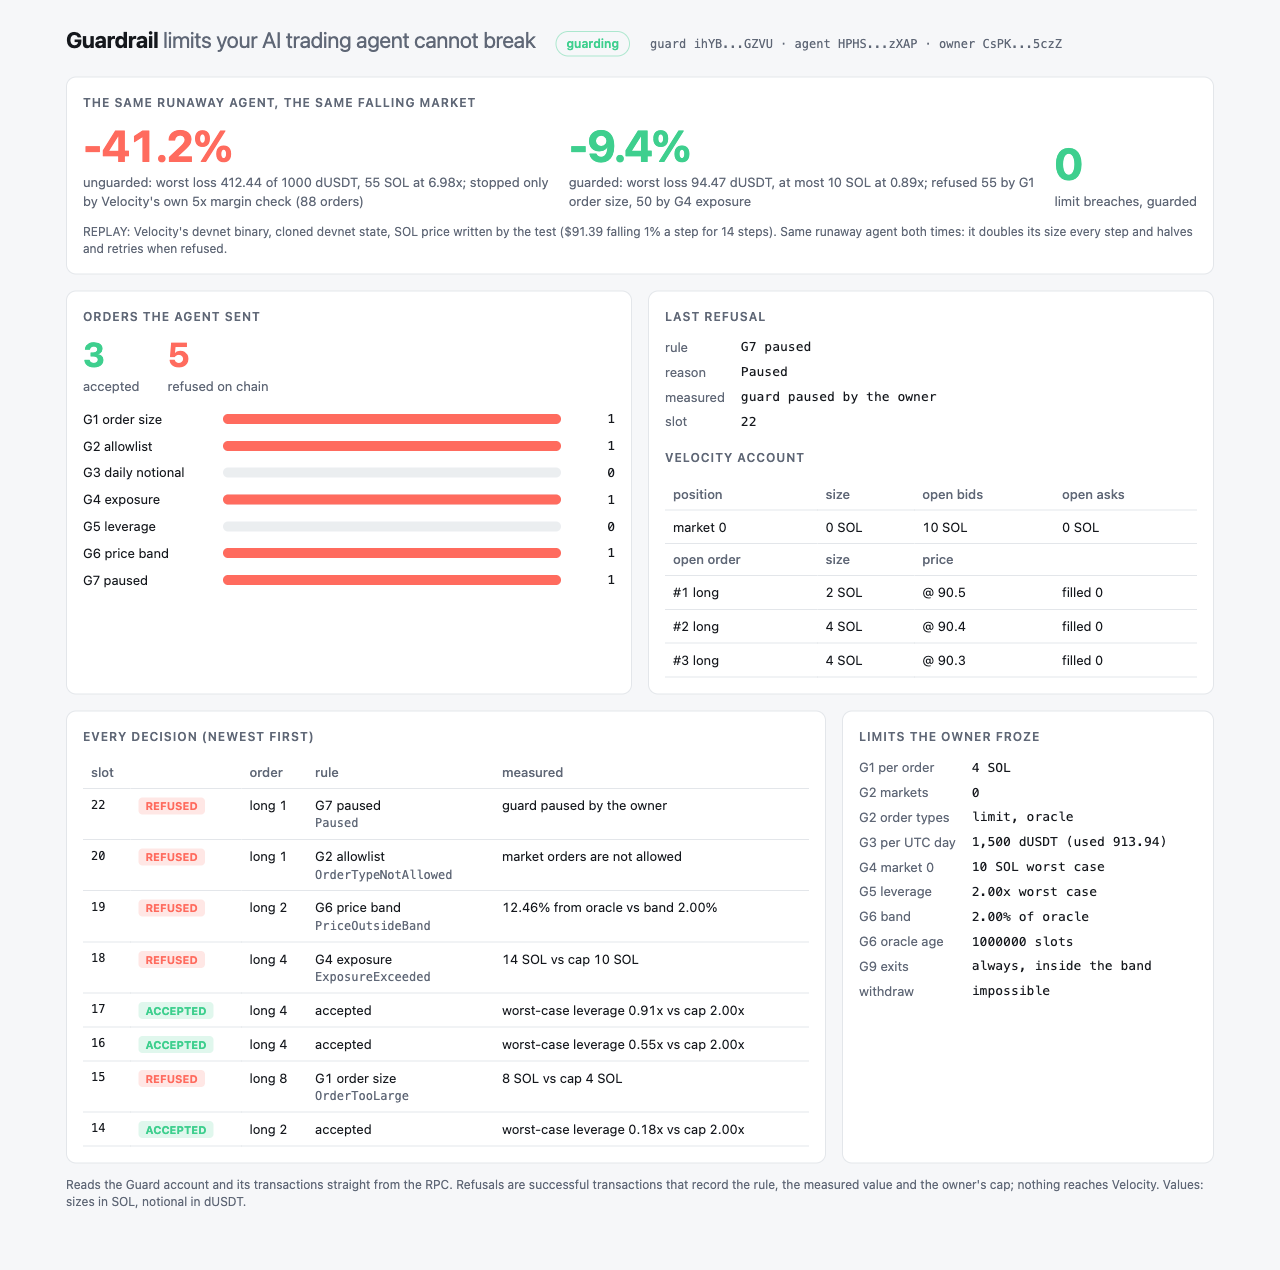
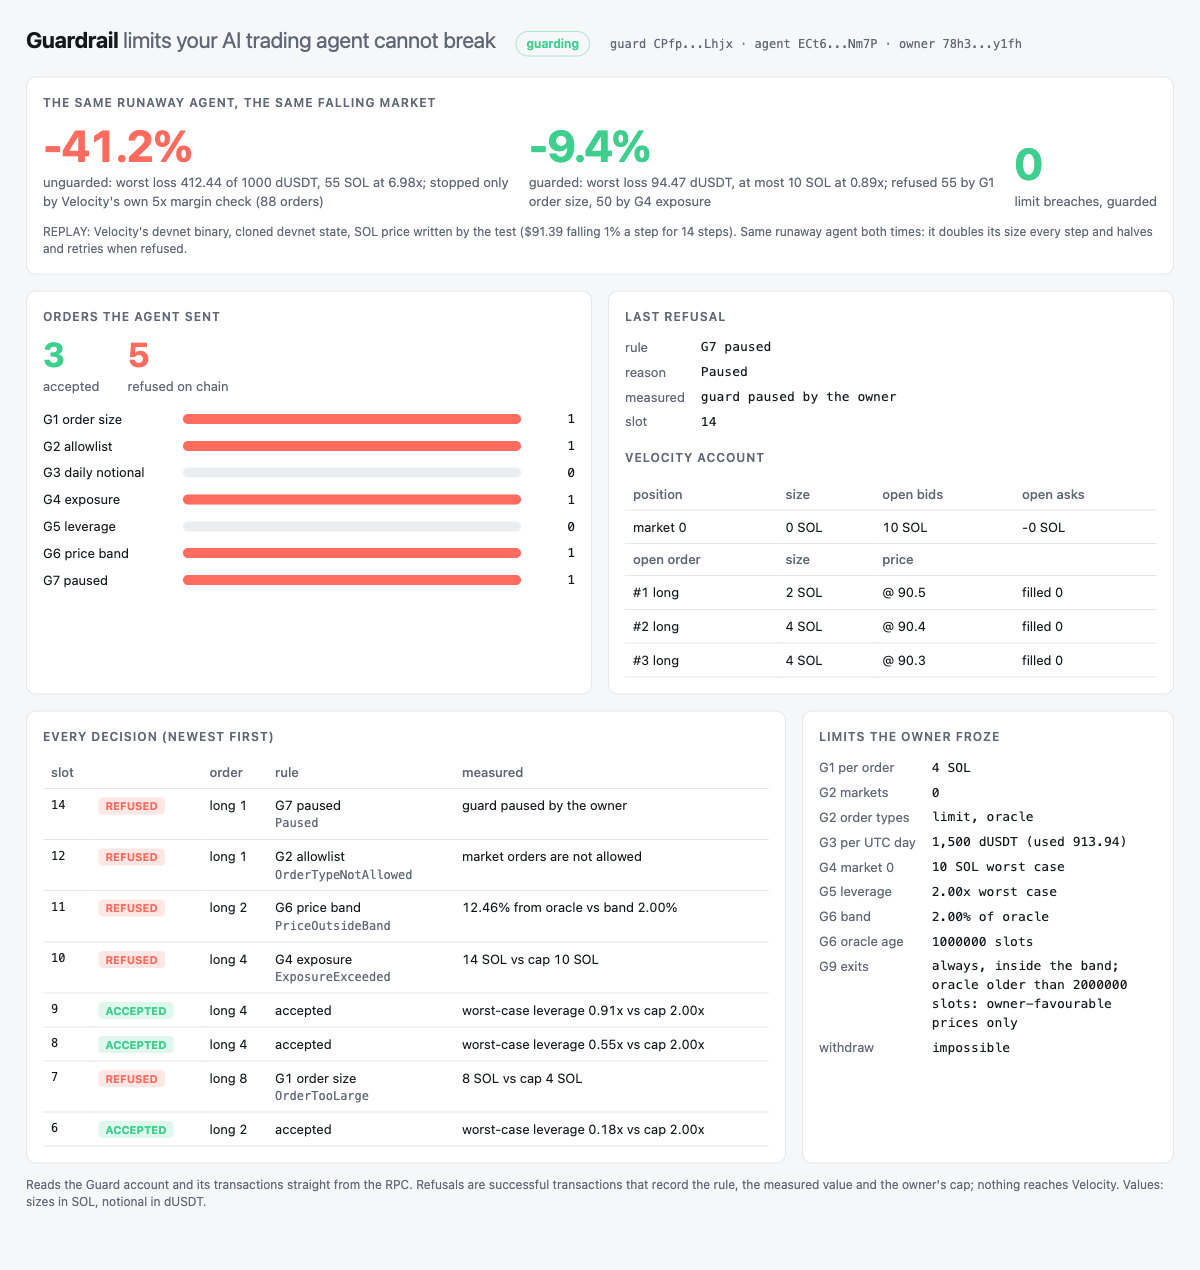
Dashboard hardening: guard-frame-only events for this guard, owner checks, rpc allowlist, DOM rendering with textContent

diff --git a/dashboard/app.js b/dashboard/app.js
@@ -1,98 +1,47 @@
-import { loadDashboard, RULES, REASONS } from "./guard-view.js";
+import { loadDashboard, allowedRpc } from "./guard-view.js";
+import { renderBars, renderError, renderFeed, renderLastRefusal, renderLimits, renderVelocity } from "./render.js";
 
 const q = new URLSearchParams(location.search);
-const RPC = q.get("rpc") ?? "http://127.0.0.1:8999";
+const RPC = allowedRpc(q.get("rpc"));
 const GUARD = q.get("guard");
 const $ = (id) => document.getElementById(id);
-const sol = (b) => (Number(b) / 1e9).toLocaleString(undefined, { maximumFractionDigits: 4 });
-const usd = (b) => (Number(b) / 1e6).toLocaleString(undefined, { maximumFractionDigits: 2 });
-const esc = (s) => String(s).replace(/[&<>"]/g, (c) => ({ "&": "&amp;", "<": "&lt;", ">": "&gt;", '"': "&quot;" })[c]);
-const short = (a) => `${a.slice(0, 4)}...${a.slice(-4)}`;
-
-/** Formats a rule's measured value and cap in its own units. */
-const ORDER_TYPES = { 0: "market", 1: "limit", 2: "trigger market", 3: "trigger limit", 4: "oracle" };
-function measure(rule, v, cap, reason) {
-  if (rule === 2) {
-    if (reason === 6001) return `market ${v} is not on the allowlist`;
-    if (reason === 6002) return `${ORDER_TYPES[Number(v)] ?? v} orders are not allowed`;
-    if (reason === 6003) return "builder fields must be empty";
-    if (reason === 6015) return "trigger orders are not supported";
-    return "order shape not allowed";
-  }
-  if (rule === 6 && reason === 6028) return `exit with an oracle ${v} slots old (over ${cap}) priced against the owner`;
-  if (rule === 5 && reason === 6022) return "a non-quote spot balance or quote borrow exists";
-  if (rule === 5 && reason === 6024) return "account equity is not positive";
-  switch (rule) {
-    case 1: case 4: return `${sol(v)} SOL vs cap ${sol(cap)} SOL`;
-    case 3: return `${usd(v)} dUSDT today vs cap ${usd(cap)}`;
-    case 5: return `worst-case leverage ${(Number(v) / 1e4).toFixed(2)}x vs cap ${(Number(cap) / 1e4).toFixed(2)}x`;
-    case 6: return `${(Number(v) / 100).toFixed(2)}% from oracle vs band ${(Number(cap) / 100).toFixed(2)}%`;
-    case 7: return "guard paused by the owner";
-    default: return "";
-  }
-}
+const short = (a) => `${String(a).slice(0, 4)}...${String(a).slice(-4)}`;
 
 async function headline() {
   try {
     const h = await (await fetch("./headline.json")).json();
-    $("h-un").textContent = `-${h.unguarded.worstLossPct}%`;
+    $("h-un").textContent = `-${Number(h.unguarded.worstLossPct)}%`;
     $("h-un-sub").textContent = `unguarded: worst loss ${h.unguarded.worstLoss} of ${h.collateral} dUSDT, ${h.unguarded.maxPositionSol} SOL at ${h.unguarded.maxLeverage}x; stopped only by ${h.unguarded.stoppedBy}`;
-    $("h-gu").textContent = `-${h.guarded.worstLossPct}%`;
+    $("h-gu").textContent = `-${Number(h.guarded.worstLossPct)}%`;
     $("h-gu-sub").textContent = `guarded: worst loss ${h.guarded.worstLoss} dUSDT, at most ${h.guarded.maxPositionSol} SOL at ${h.guarded.maxLeverage}x; refused ${Object.entries(h.guarded.refused).map(([k, n]) => `${n} by ${k}`).join(", ")}`;
-    $("h-br").textContent = h.guarded.breaches;
+    $("h-br").textContent = String(Number(h.guarded.breaches));
     $("h-label").textContent = h.label;
   } catch { $("headline-panel").style.display = "none"; }
 }
 
+function status(text, bad) {
+  $("status").textContent = text;
+  $("status").className = `pill ${bad ? "no" : "ok"}`;
+}
+
 function render({ guard: g, velocity, decisions }) {
   const revoked = g.agent === "11111111111111111111111111111111";
-  const st = $("status");
-  st.textContent = revoked ? "agent revoked" : g.paused ? "paused" : "guarding";
-  st.className = `pill ${revoked || g.paused ? "no" : "ok"}`;
+  status(revoked ? "agent revoked" : g.paused ? "paused" : "guarding", revoked || g.paused);
   $("ids").textContent = `guard ${short(GUARD)} · agent ${revoked ? "none" : short(g.agent)} · owner ${short(g.owner)}`;
-  const refusedTotal = Object.values(g.refused).reduce((a, b) => a + b, 0n);
-  $("c-acc").textContent = g.acceptedCount.toString();
-  $("c-ref").textContent = refusedTotal.toString();
-  const max = Number(Object.values(g.refused).reduce((a, b) => (b > a ? b : a), 1n));
-  const names = { G1: "G1 order size", G2: "G2 allowlist", G3: "G3 daily notional", G4: "G4 exposure", G5: "G5 leverage", G6: "G6 price band", G7: "G7 paused" };
-  $("bars").innerHTML = Object.entries(g.refused).map(([k, n]) =>
-    `<div class="bar"><span>${names[k]}</span><div class="track"><div class="fill" style="width:${(Number(n) / max) * 100}%"></div></div><span class="n">${n}</span></div>`).join("");
-  const lr = g.lastRefusal;
-  $("last").innerHTML = lr.reason
-    ? `<dl class="kv"><dt>rule</dt><dd>${esc(RULES[lr.rule] ?? lr.rule)}</dd><dt>reason</dt><dd>${esc(REASONS[lr.reason] ?? lr.reason)}</dd><dt>measured</dt><dd>${esc(measure(lr.rule, lr.value, lr.cap, lr.reason))}</dd><dt>slot</dt><dd>${lr.slot}</dd></dl>`
-    : `<p class="empty">No refusals yet.</p>`;
-  const pos = velocity.positions.map((p) => `<tr><td>market ${p.marketIndex}</td><td>${sol(p.base)} SOL</td><td>${sol(p.openBids)} SOL</td><td>${sol(-p.openAsks)} SOL</td></tr>`).join("");
-  const ord = velocity.orders.map((o) => `<tr><td>#${o.orderId} ${o.side}</td><td>${sol(o.size)} SOL</td><td>@ ${usd(o.price)}</td><td>filled ${sol(o.filled)}</td></tr>`).join("");
-  $("velocity").innerHTML = (pos || ord)
-    ? `<table>${pos ? `<thead><tr><th>position</th><th>size</th><th>open bids</th><th>open asks</th></tr></thead><tbody>${pos}</tbody>` : ""}${ord ? `<thead><tr><th>open order</th><th>size</th><th>price</th><th></th></tr></thead><tbody>${ord}</tbody>` : ""}</table>`
-    : `<p class="empty">No positions or open orders.</p>`;
-  $("feed").innerHTML = decisions.length
-    ? `<table><thead><tr><th>slot</th><th></th><th>order</th><th>rule</th><th>measured</th></tr></thead><tbody>${decisions.map((d) => `<tr>
-        <td class="mono">${d.slot}</td>
-        <td><span class="tag ${d.accepted ? "ok" : "no"}">${d.accepted ? "ACCEPTED" : "REFUSED"}</span></td>
-        <td>${d.direction === 0 ? "long" : "short"} ${sol(d.size)}${d.reduceOnly ? " (exit)" : ""}</td>
-        <td>${esc(RULES[d.rule] ?? d.rule)}${d.reason ? `<div class="addr">${esc(REASONS[d.reason] ?? d.reason)}</div>` : ""}</td>
-        <td>${d.accepted ? (d.rule === 9 ? "exit inside the band" : esc(measure(5, d.value, d.cap))) : esc(measure(d.rule, d.value, d.cap, d.reason))}</td></tr>`).join("")}</tbody></table>`
-    : `<p class="empty">No orders yet.</p>`;
-  const l = g.limits;
-  const types = [["market", 1], ["limit", 2], ["oracle", 16]].filter(([, b]) => l.allowedOrderTypes & b).map(([n]) => n).join(", ");
-  $("limits").innerHTML = `<dl class="kv">
-    <dt>G1 per order</dt><dd>${sol(l.maxOrderBase)} SOL</dd>
-    <dt>G2 markets</dt><dd>${l.markets.map((m) => m.marketIndex).join(", ") || "none"}</dd>
-    <dt>G2 order types</dt><dd>${types}</dd>
-    <dt>G3 per UTC day</dt><dd>${usd(l.dailyNotionalCap)} dUSDT (used ${usd(g.dayNotional)})</dd>
-    ${l.markets.map((m) => `<dt>G4 market ${m.marketIndex}</dt><dd>${sol(m.maxExposureBase)} SOL worst case</dd>`).join("")}
-    <dt>G5 leverage</dt><dd>${(l.maxLeverageBps / 1e4).toFixed(2)}x worst case</dd>
-    <dt>G6 band</dt><dd>${(l.priceBandBps / 100).toFixed(2)}% of oracle</dd>
-    <dt>G6 oracle age</dt><dd>${l.maxOracleStalenessSlots} slots</dd>
-    <dt>G9 exits</dt><dd>always, inside the band; oracle older than ${l.exitMaxStalenessSlots} slots: owner-favourable prices only</dd>
-    <dt>withdraw</dt><dd>impossible</dd></dl>`;
+  $("c-acc").textContent = String(Number(g.acceptedCount));
+  $("c-ref").textContent = String(Object.values(g.refused).reduce((a, b) => a + Number(b), 0));
+  renderBars(document, $("bars"), g.refused);
+  renderLastRefusal(document, $("last"), g.lastRefusal);
+  renderVelocity(document, $("velocity"), velocity);
+  renderFeed(document, $("feed"), decisions);
+  renderLimits(document, $("limits"), g);
 }
 
 async function tick() {
-  if (!GUARD) { $("status").textContent = "add ?guard=<address>"; return; }
+  if (!RPC) { status("rpc not allowed: use a local validator or Solana's public devnet or mainnet RPC", true); return; }
+  if (!GUARD) { status("add ?guard=<address>", true); return; }
   try { render(await loadDashboard(RPC, GUARD)); }
-  catch (e) { $("status").textContent = "error"; $("status").className = "pill no"; $("feed").innerHTML = `<p class="err">${esc(e.message)}</p>`; }
+  catch (e) { status("error", true); renderError(document, $("feed"), e.message); }
 }
 headline();
 tick();

diff --git a/dashboard/render.js b/dashboard/render.js
@@ -1,4 +1,108 @@
-// STUB (red phase): the old innerHTML rendering.
-export function renderError(doc, box, msg) { box.innerHTML = `<p class="err">${msg}</p>`; }
-export function renderFeed(doc, box, decisions) { box.innerHTML = decisions.map((d) => `<div>${d.slot} ${d.rule} ${d.reason}</div>`).join(""); }
-export function renderLastRefusal(doc, box, lr) { box.innerHTML = `<div>${lr.rule} ${lr.reason} ${lr.slot}</div>`; }
+// Dashboard rendering with DOM nodes and textContent only (no HTML parsing of any value from the RPC).
+import { RULES, REASONS } from "./guard-view.js";
+
+const num = (x) => Number(x);
+const sol = (b) => (num(b) / 1e9).toLocaleString(undefined, { maximumFractionDigits: 4 });
+const usd = (b) => (num(b) / 1e6).toLocaleString(undefined, { maximumFractionDigits: 2 });
+const ORDER_TYPES = { 0: "market", 1: "limit", 2: "trigger market", 3: "trigger limit", 4: "oracle" };
+const ruleName = (r) => RULES[r] ?? String(r);
+const reasonName = (r) => REASONS[r] ?? String(r);
+
+/** h(doc, "td", {className: "mono"}, "text", childNode, ...) */
+export function h(doc, tag, props, ...children) {
+  const el = doc.createElement(tag);
+  if (props?.className) el.className = props.className;
+  if (props?.width !== undefined) el.style.width = `${num(props.width)}%`;
+  for (const c of children.flat()) {
+    if (c === null || c === undefined || c === false) continue;
+    el.appendChild(typeof c === "object" ? c : doc.createTextNode(String(c)));
+  }
+  return el;
+}
+
+/** A rule's measured value against its cap, in the rule's units. */
+export function measure(rule, v, cap, reason) {
+  if (rule === 2) {
+    if (reason === 6001) return `market ${num(v)} is not on the allowlist`;
+    if (reason === 6002) return `${ORDER_TYPES[num(v)] ?? num(v)} orders are not allowed`;
+    if (reason === 6003) return "builder fields must be empty";
+    if (reason === 6015) return "trigger orders are not supported";
+    return "order shape not allowed";
+  }
+  if (rule === 6 && reason === 6028) return `exit with an oracle ${num(v)} slots old (over ${num(cap)}) priced against the owner`;
+  if (rule === 5 && reason === 6022) return "a non-quote spot balance or quote borrow exists";
+  if (rule === 5 && reason === 6024) return "account equity is not positive";
+  switch (rule) {
+    case 1: case 4: return `${sol(v)} SOL vs cap ${sol(cap)} SOL`;
+    case 3: return `${usd(v)} dUSDT today vs cap ${usd(cap)}`;
+    case 5: return `worst-case leverage ${(num(v) / 1e4).toFixed(2)}x vs cap ${(num(cap) / 1e4).toFixed(2)}x`;
+    case 6: return `${(num(v) / 100).toFixed(2)}% from oracle vs band ${(num(cap) / 100).toFixed(2)}%`;
+    case 7: return "guard paused by the owner";
+    default: return "";
+  }
+}
+
+export function renderError(doc, box, message) {
+  box.replaceChildren(h(doc, "p", { className: "err" }, String(message)));
+}
+
+export function renderBars(doc, box, refused) {
+  const names = { G1: "G1 order size", G2: "G2 allowlist", G3: "G3 daily notional", G4: "G4 exposure", G5: "G5 leverage", G6: "G6 price band", G7: "G7 paused" };
+  const max = Math.max(1, ...Object.values(refused).map(num));
+  box.replaceChildren(...Object.entries(refused).map(([k, n]) =>
+    h(doc, "div", { className: "bar" }, h(doc, "span", null, names[k] ?? k), h(doc, "div", { className: "track" }, h(doc, "div", { className: "fill", width: (num(n) / max) * 100 })), h(doc, "span", { className: "n" }, String(num(n))))));
+}
+
+export function renderLastRefusal(doc, box, lr) {
+  if (!lr.reason) { box.replaceChildren(h(doc, "p", { className: "empty" }, "No refusals yet.")); return; }
+  const kv = [["rule", ruleName(lr.rule)], ["reason", reasonName(lr.reason)], ["measured", measure(lr.rule, lr.value, lr.cap, lr.reason)], ["slot", String(lr.slot)]];
+  box.replaceChildren(h(doc, "dl", { className: "kv" }, kv.flatMap(([k, v]) => [h(doc, "dt", null, k), h(doc, "dd", null, v)])));
+}
+
+export function renderVelocity(doc, box, velocity) {
+  const rows = [];
+  if (velocity.positions.length) {
+    rows.push(h(doc, "thead", null, h(doc, "tr", null, ["position", "size", "open bids", "open asks"].map((t) => h(doc, "th", null, t)))));
+    rows.push(h(doc, "tbody", null, velocity.positions.map((p) => h(doc, "tr", null,
+      h(doc, "td", null, `market ${num(p.marketIndex)}`), h(doc, "td", null, `${sol(p.base)} SOL`), h(doc, "td", null, `${sol(p.openBids)} SOL`), h(doc, "td", null, `${sol(Math.abs(num(p.openAsks)))} SOL`)))));
+  }
+  if (velocity.orders.length) {
+    rows.push(h(doc, "thead", null, h(doc, "tr", null, ["open order", "size", "price", ""].map((t) => h(doc, "th", null, t)))));
+    rows.push(h(doc, "tbody", null, velocity.orders.map((o) => h(doc, "tr", null,
+      h(doc, "td", null, `#${num(o.orderId)} ${o.side === "long" ? "long" : "short"}`), h(doc, "td", null, `${sol(o.size)} SOL`), h(doc, "td", null, `@ ${usd(o.price)}`), h(doc, "td", null, `filled ${sol(o.filled)}`)))));
+  }
+  box.replaceChildren(rows.length ? h(doc, "table", null, rows) : h(doc, "p", { className: "empty" }, "No positions or open orders."));
+}
+
+export function renderFeed(doc, box, decisions) {
+  if (!decisions.length) { box.replaceChildren(h(doc, "p", { className: "empty" }, "No orders yet.")); return; }
+  const head = h(doc, "thead", null, h(doc, "tr", null, ["slot", "", "order", "rule", "measured"].map((t) => h(doc, "th", null, t))));
+  const body = h(doc, "tbody", null, decisions.map((d) => {
+    const measured = d.accepted ? (d.rule === 9 ? "exit inside the band" : measure(5, d.value, d.cap)) : measure(d.rule, d.value, d.cap, d.reason);
+    return h(doc, "tr", null,
+      h(doc, "td", { className: "mono" }, String(d.slot)),
+      h(doc, "td", null, h(doc, "span", { className: `tag ${d.accepted ? "ok" : "no"}` }, d.accepted ? "ACCEPTED" : "REFUSED")),
+      h(doc, "td", null, `${num(d.direction) === 0 ? "long" : "short"} ${sol(d.size)}${d.reduceOnly ? " (exit)" : ""}`),
+      h(doc, "td", null, ruleName(d.rule), d.reason ? h(doc, "div", { className: "addr" }, reasonName(d.reason)) : null),
+      h(doc, "td", null, measured));
+  }));
+  box.replaceChildren(h(doc, "table", null, head, body));
+}
+
+export function renderLimits(doc, box, g) {
+  const l = g.limits;
+  const types = [["market", 1], ["limit", 2], ["oracle", 16]].filter(([, b]) => num(l.allowedOrderTypes) & b).map(([n]) => n).join(", ");
+  const kv = [
+    ["G1 per order", `${sol(l.maxOrderBase)} SOL`],
+    ["G2 markets", l.markets.map((m) => num(m.marketIndex)).join(", ") || "none"],
+    ["G2 order types", types],
+    ["G3 per UTC day", `${usd(l.dailyNotionalCap)} dUSDT (used ${usd(g.dayNotional)})`],
+    ...l.markets.map((m) => [`G4 market ${num(m.marketIndex)}`, `${sol(m.maxExposureBase)} SOL worst case`]),
+    ["G5 leverage", `${(num(l.maxLeverageBps) / 1e4).toFixed(2)}x worst case`],
+    ["G6 band", `${(num(l.priceBandBps) / 100).toFixed(2)}% of oracle`],
+    ["G6 oracle age", `${num(l.maxOracleStalenessSlots)} slots`],
+    ["G9 exits", `always, inside the band; oracle older than ${num(l.exitMaxStalenessSlots)} slots: owner-favourable prices only`],
+    ["withdraw", "impossible"],
+  ];
+  box.replaceChildren(h(doc, "dl", { className: "kv" }, kv.flatMap(([k, v]) => [h(doc, "dt", null, k), h(doc, "dd", null, v)])));
+}

diff --git a/dashboard/guard-view.js b/dashboard/guard-view.js
@@ -64,16 +64,54 @@ export function decodeGuard(u8) {
   return g;
 }
 
-export function decodeEvents(logs) {
+/**
+ * OrderChecked events emitted by the guard program itself, for this guard only. The log stack is tracked from the
+ * "Program <id> invoke [n]" and "Program <id> success|failed" lines, and a "Program data:" line counts only while
+ * the guard program is the executing frame (another program in the same transaction, or one the guard calls, can
+ * log anything). The event's guard field must equal `guardAddress`.
+ */
+export function decodeEvents(logs, guardAddress, programId = GUARD_PROGRAM_ID) {
   const out = [];
+  const stack = [];
   for (const l of logs ?? []) {
-    if (!l.startsWith("Program data: ")) continue;
+    const inv = /^Program (\w+) invoke \[(\d+)\]$/.exec(l);
+    if (inv) { stack.length = Number(inv[2]) - 1; stack.push(inv[1]); continue; }
+    const end = /^Program (\w+) (success|failed)/.exec(l);
+    if (end) { if (stack[stack.length - 1] === end[1]) stack.pop(); continue; }
+    if (!l.startsWith("Program data: ") || stack[stack.length - 1] !== programId) continue;
     const u8 = fromB64(l.slice(14));
     if (u8.length < 90 || hex(u8.subarray(0, 8)) !== DISC_EVENT) continue;
     const r = new R(u8, 8);
-    out.push({ guard: r.key(), accepted: r.u8() === 1, rule: r.u8(), marketIndex: r.u16(), direction: r.u8(), size: r.u64(), reduceOnly: r.u8() === 1, value: r.i128(), cap: r.i128(), reason: r.u32() });
+    const e = { guard: r.key(), accepted: r.u8() === 1, rule: r.u8(), marketIndex: r.u16(), direction: r.u8(), size: r.u64(), reduceOnly: r.u8() === 1, value: r.i128(), cap: r.i128(), reason: r.u32() };
+    if (e.guard === guardAddress) out.push(e);
   }
   return out;
+}
+
+/** The Guard account, only if the guard program owns it. */
+export function checkedGuard(info, programId = GUARD_PROGRAM_ID) {
+  if (!info) throw new Error("no guard account");
+  if (info.owner !== programId) throw new Error(`guard account owner is ${info.owner}, expected the guard program ${programId}`);
+  return decodeGuard(info.data);
+}
+
+/** The Velocity User account, only if the Velocity program owns it. */
+export function checkedVelocityUser(info) {
+  if (!info) return { positions: [], orders: [] };
+  if (info.owner !== VELOCITY_PROGRAM_ID) throw new Error(`Velocity user owner is ${info.owner}, expected ${VELOCITY_PROGRAM_ID}`);
+  if (info.data.length < 4496) throw new Error("Velocity user account too short");
+  return decodeVelocityUser(info.data);
+}
+
+/** The RPC endpoints the page may read from: local validators and Solana's public devnet and mainnet RPC. */
+export function allowedRpc(param) {
+  if (param === null || param === undefined || param === "") return "http://127.0.0.1:8999";
+  let u;
+  try { u = new URL(param); } catch { return null; }
+  if (u.username || u.password) return null;
+  const local = (u.hostname === "127.0.0.1" || u.hostname === "localhost") && (u.protocol === "http:" || u.protocol === "https:");
+  const publicRpc = u.protocol === "https:" && (u.hostname === "api.devnet.solana.com" || u.hostname === "api.mainnet-beta.solana.com") && !u.port;
+  return local || publicRpc ? u.origin : null;
 }
 
 /** Velocity positions and open orders from the User account bytes. */
@@ -100,29 +138,20 @@ export async function rpc(url, method, params) {
   if (j.error) throw new Error(`${method}: ${j.error.message}`);
   return j.result;
 }
-export async function accountData(url, address) {
+export async function accountInfo(url, address) {
   const r = await rpc(url, "getAccountInfo", [address, { encoding: "base64", commitment: "confirmed" }]);
-  return r.value ? fromB64(r.value.data[0]) : null;
+  return r.value ? { owner: r.value.owner, data: fromB64(r.value.data[0]) } : null;
 }
 
-/** PDA derivation needs ed25519 point checks; the dashboard takes the guard address (or derives it server-side). */
 export async function loadDashboard(url, guardAddress, limit = 40) {
-  const gd = await accountData(url, guardAddress);
-  if (!gd) throw new Error(`no guard account at ${guardAddress}`);
-  const guard = decodeGuard(gd);
-  const ud = await accountData(url, guard.velocityUser);
-  const velocity = ud ? decodeVelocityUser(ud) : { positions: [], orders: [] };
+  const guard = checkedGuard(await accountInfo(url, guardAddress));
+  const velocity = checkedVelocityUser(await accountInfo(url, guard.velocityUser));
   const sigs = await rpc(url, "getSignaturesForAddress", [guardAddress, { limit, commitment: "confirmed" }]);
   const decisions = [];
   for (const s of sigs) {
     if (s.err) continue;
     const tx = await rpc(url, "getTransaction", [s.signature, { commitment: "confirmed", maxSupportedTransactionVersion: 0 }]);
-    for (const e of decodeEvents(tx?.meta?.logMessages)) decisions.push({ ...e, signature: s.signature, slot: s.slot, blockTime: s.blockTime });
+    for (const e of decodeEvents(tx?.meta?.logMessages, guardAddress)) decisions.push({ ...e, signature: s.signature, slot: s.slot, blockTime: s.blockTime });
   }
   return { guard, velocity, decisions };
 }
-
-// STUB (red phase): no owner checks, no allowlist.
-export const checkedGuard = (info) => decodeGuard(info.data);
-export const checkedVelocityUser = (info) => decodeVelocityUser(info.data);
-export const allowedRpc = (p) => p ?? "http://127.0.0.1:8999";
